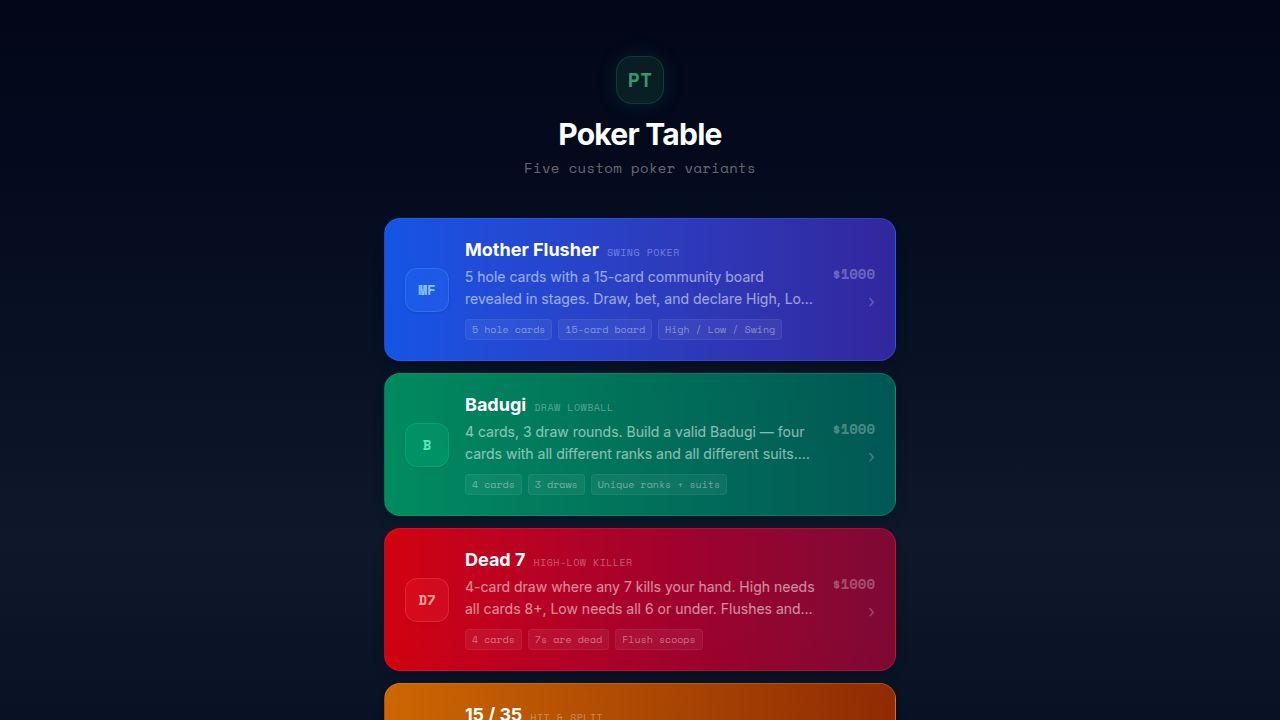
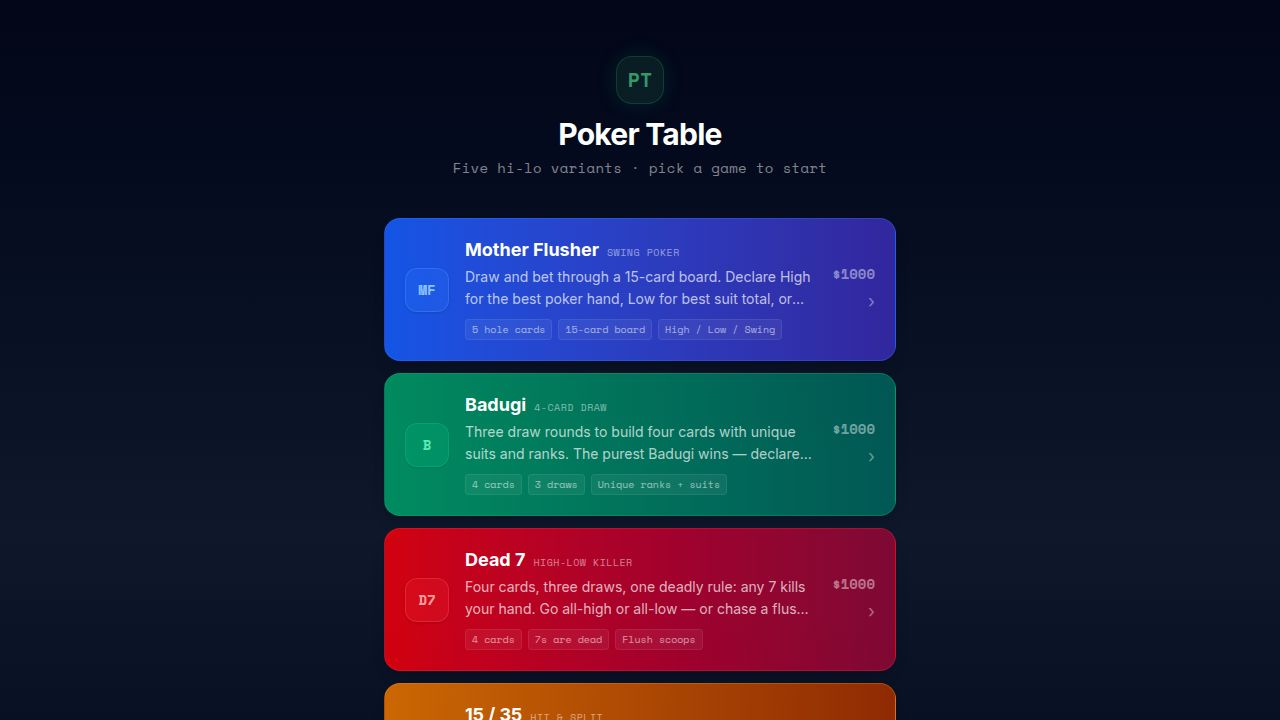
Add a welcome screen and local sign-in flow for players
Implement a closed-alpha welcome screen and local player name persistence, allowing users to enter a display name that is saved to localStorage. The player name is then displayed on the home page and used for the mock player in the game engine. Includes a shake animation for invalid input and updates documentation.

Replit-Commit-Author: Agent
Replit-Commit-Session-Id: a8a0903d-6548-4b69-8b8f-c89d01671870
Replit-Commit-Checkpoint-Type: full_checkpoint
Replit-Commit-Event-Id: 010b504e-9160-4e97-8202-93198312d97c
Replit-Commit-Screenshot-Url: https://storage.googleapis.com/screenshot-production-us-central1/b30810ef-c64c-449c-a8ce-6b19686a9135/a8a0903d-6548-4b69-8b8f-c89d01671870/Pb24JQD
Replit-Helium-Checkpoint-Created: true

diff --git a/client/src/components/WelcomeGate.tsx b/client/src/components/WelcomeGate.tsx
@@ -1,0 +1,97 @@
+import { useState, type ReactNode } from "react";
+import { getPlayerName, setPlayerName } from "@/lib/persistence";
+
+interface WelcomeGateProps {
+  children: ReactNode;
+}
+
+export function WelcomeGate({ children }: WelcomeGateProps) {
+  const [name, setName] = useState(() => getPlayerName());
+
+  if (name) return <>{children}</>;
+
+  return <WelcomeScreen onComplete={(n) => { setPlayerName(n); setName(n); }} />;
+}
+
+function WelcomeScreen({ onComplete }: { onComplete: (name: string) => void }) {
+  const [input, setInput] = useState("");
+  const [shaking, setShaking] = useState(false);
+  const trimmed = input.trim();
+  const valid = trimmed.length >= 2 && trimmed.length <= 16;
+
+  const handleSubmit = (e: React.FormEvent) => {
+    e.preventDefault();
+    if (!valid) {
+      setShaking(true);
+      setTimeout(() => setShaking(false), 500);
+      return;
+    }
+    onComplete(trimmed);
+  };
+
+  return (
+    <div className="min-h-[100dvh] bg-gradient-to-b from-slate-950 via-slate-900 to-slate-950 flex items-center justify-center px-4 py-8">
+      <div className="w-full max-w-md flex flex-col items-center">
+        <div className="w-14 h-14 rounded-2xl bg-primary/15 border border-primary/25 flex items-center justify-center shadow-[0_0_30px_rgba(16,185,129,0.15)] mb-6">
+          <span className="text-primary font-bold text-2xl font-mono">PT</span>
+        </div>
+
+        <div className="text-center mb-8">
+          <h1 className="text-2xl sm:text-3xl font-bold text-white tracking-tight mb-2" data-testid="text-welcome-title">
+            Welcome to Poker Table
+          </h1>
+          <div className="inline-block px-3 py-1 rounded-full bg-primary/10 border border-primary/20 mb-5">
+            <span className="text-primary text-xs font-mono uppercase tracking-widest font-bold" data-testid="text-alpha-badge">Closed Alpha</span>
+          </div>
+        </div>
+
+        <div className="w-full rounded-xl bg-white/[0.03] border border-white/[0.08] p-5 sm:p-6 mb-6">
+          <p className="text-white/80 text-sm leading-relaxed mb-4">
+            Thank you for being selected as an early tester. You are part of a small group helping shape this game before anyone else sees it.
+          </p>
+          <p className="text-white/65 text-sm leading-relaxed mb-4">
+            Our goal is to build the best card game experience possible — grounded in psychology, fairness, and strong design. Every decision you see here is intentional, and your perspective matters.
+          </p>
+          <p className="text-white/65 text-sm leading-relaxed">
+            If anything feels wrong, broken, or unfair — please say so. Honest feedback and bug reports are exactly what we need right now.
+          </p>
+        </div>
+
+        <form onSubmit={handleSubmit} className="w-full">
+          <label htmlFor="display-name" className="block text-xs font-mono text-white/50 uppercase tracking-wider mb-2 pl-1">
+            Choose your display name
+          </label>
+          <div className={`flex gap-2 ${shaking ? "animate-shake" : ""}`}>
+            <input
+              id="display-name"
+              type="text"
+              value={input}
+              onChange={(e) => setInput(e.target.value)}
+              placeholder="2–16 characters"
+              maxLength={16}
+              autoFocus
+              autoComplete="off"
+              className="flex-1 h-12 px-4 rounded-xl bg-white/[0.06] border border-white/[0.12] text-white placeholder:text-white/30 font-mono text-sm focus:outline-none focus:border-primary/50 focus:ring-1 focus:ring-primary/25 transition-all"
+              data-testid="input-display-name"
+            />
+            <button
+              type="submit"
+              disabled={!valid}
+              className="h-12 px-6 rounded-xl bg-primary text-primary-foreground font-bold text-sm uppercase tracking-wider disabled:opacity-30 disabled:cursor-not-allowed hover:bg-primary/90 active:scale-[0.97] transition-all"
+              data-testid="button-enter"
+            >
+              Enter
+            </button>
+          </div>
+          {input.length > 0 && !valid && (
+            <p className="text-red-400/70 text-xs font-mono mt-2 pl-1">Name must be 2–16 characters</p>
+          )}
+        </form>
+
+        <p className="text-white/30 text-[10px] font-mono mt-8 text-center leading-relaxed max-w-xs">
+          Your name and progress are saved locally on this device only. No account or login required.
+        </p>
+      </div>
+    </div>
+  );
+}

diff --git a/client/src/lib/poker/engine/useGameEngine.ts b/client/src/lib/poker/engine/useGameEngine.ts
@@ -2,10 +2,10 @@ import { useState, useEffect, useCallback, useRef } from 'react';
 import { GameState, Player, CardType, Declaration, GamePhase, PlayerStatus } from '../types';
 import { createDeck, getNextActivePlayerIndex, getDealerIndex, moveDealer } from './core';
 import { GameMode } from './types';
-import { getChips, saveChips, addHandRecord, HandRecord } from '../../persistence';
+import { getChips, saveChips, addHandRecord, HandRecord, getPlayerName } from '../../persistence';
 
 export const createMockPlayers = (heroChips: number): Player[] => [
-  { id: 'p1', name: 'You', chips: heroChips, bet: 0, cards: [], status: 'active', isDealer: false, declaration: null, hasActed: false },
+  { id: 'p1', name: getPlayerName() || 'You', chips: heroChips, bet: 0, cards: [], status: 'active', isDealer: false, declaration: null, hasActed: false },
   { id: 'p2', name: 'Alice', chips: 1000, bet: 0, cards: [], status: 'active', isDealer: true, declaration: null, hasActed: false },
   { id: 'p3', name: 'Bob', chips: 1000, bet: 0, cards: [], status: 'active', isDealer: false, declaration: null, hasActed: false },
   { id: 'p4', name: 'Charlie', chips: 1000, bet: 0, cards: [], status: 'active', isDealer: false, declaration: null, hasActed: false },

diff --git a/client/src/pages/Home.tsx b/client/src/pages/Home.tsx
@@ -1,5 +1,5 @@
 import { useLocation } from "wouter";
-import { getAllChips, getHandHistory } from "@/lib/persistence";
+import { getAllChips, getHandHistory, getPlayerName } from "@/lib/persistence";
 import { HandHistory } from "@/components/game/HandHistory";
 import { StatsView } from "@/components/game/StatsView";
 
@@ -78,6 +78,7 @@ const modes = [
 
 export default function Home() {
   const [, navigate] = useLocation();
+  const playerName = getPlayerName();
   const chipMap = getAllChips();
   const history = getHandHistory();
   const totalHands = history.length;
@@ -96,6 +97,11 @@ export default function Home() {
             <h1 className="text-2xl sm:text-3xl font-bold text-white tracking-tight" data-testid="text-app-title">
               Poker Table
             </h1>
+            {playerName && (
+              <p className="text-primary/80 text-xs font-mono mt-1 tracking-wide" data-testid="text-player-greeting">
+                {playerName}
+              </p>
+            )}
             <p className="text-white/50 text-sm mt-1.5 font-mono tracking-wide" data-testid="text-app-subtitle">
               {totalHands === 0 ? "Five hi-lo variants \u00B7 pick a game to start" : "Five hi-lo variants"}
             </p>

diff --git a/client/src/App.tsx b/client/src/App.tsx
@@ -3,6 +3,7 @@ import { queryClient } from "./lib/queryClient";
 import { QueryClientProvider } from "@tanstack/react-query";
 import { Toaster } from "@/components/ui/toaster";
 import { TooltipProvider } from "@/components/ui/tooltip";
+import { WelcomeGate } from "@/components/WelcomeGate";
 import NotFound from "@/pages/not-found";
 import Home from "@/pages/Home";
 import Game from "@/pages/Game";
@@ -30,7 +31,9 @@ function App() {
     <QueryClientProvider client={queryClient}>
       <TooltipProvider>
         <Toaster />
-        <Router />
+        <WelcomeGate>
+          <Router />
+        </WelcomeGate>
       </TooltipProvider>
     </QueryClientProvider>
   );

diff --git a/client/src/lib/persistence.ts b/client/src/lib/persistence.ts
@@ -1,5 +1,6 @@
 const CHIPS_KEY = 'poker_table_chips';
 const HISTORY_KEY = 'poker_table_history';
+const NAME_KEY = 'poker_table_player_name';
 const MAX_HISTORY = 50;
 const DEFAULT_CHIPS = 1000;
 
@@ -76,6 +77,21 @@ export function resetAllData(): void {
   try {
     localStorage.removeItem(CHIPS_KEY);
     localStorage.removeItem(HISTORY_KEY);
+  } catch {
+  }
+}
+
+export function getPlayerName(): string | null {
+  try {
+    return localStorage.getItem(NAME_KEY);
+  } catch {
+    return null;
+  }
+}
+
+export function setPlayerName(name: string): void {
+  try {
+    localStorage.setItem(NAME_KEY, name);
   } catch {
   }
 }

diff --git a/client/src/index.css b/client/src/index.css
@@ -200,3 +200,16 @@
 .anim-reveal-flash {
   animation: reveal-flash 0.6s ease-out;
 }
+
+@keyframes shake {
+  0%, 100% { transform: translateX(0); }
+  15% { transform: translateX(-6px); }
+  30% { transform: translateX(5px); }
+  45% { transform: translateX(-4px); }
+  60% { transform: translateX(3px); }
+  75% { transform: translateX(-2px); }
+}
+
+.animate-shake {
+  animation: shake 0.4s ease-out;
+}

diff --git a/replit.md b/replit.md
@@ -23,6 +23,14 @@ A client-side poker game platform supporting five custom poker variants, built w
 - **Backend**: Express server serves the Vite dev frontend; no database needed (game is client-side only)
 - **Engine**: Shared game engine (`client/src/lib/poker/engine/`) with pluggable game modes (`client/src/lib/poker/modes/`)
 
+## Local Identity (Closed Alpha)
+- **WelcomeGate** (`client/src/components/WelcomeGate.tsx`): wraps the entire Router in App.tsx. On first visit (no `poker_table_player_name` in localStorage), shows a closed-alpha welcome screen explaining the test group and asking for a display name (2–16 chars). After entry, the name is saved and the app loads normally. Returning users skip straight to the lobby.
+- Display name is stored as a plain string in `localStorage` key `poker_table_player_name`.
+- `persistence.ts` exports `getPlayerName()` and `setPlayerName()`.
+- The hero player name in `createMockPlayers` reads from `getPlayerName()` (falls back to 'You').
+- Home page shows the player name below the title.
+- No passwords, emails, cloud accounts, or multiplayer auth. Device-local only.
+
 ## Phase Flows
 - **Badugi/Dead7**: `WAITING → ANTE → DEAL → DRAW_1 → BET_1 → DRAW_2 → BET_2 → DRAW_3 → DECLARE → BET_3 → SHOWDOWN`
 - **15/35**: `WAITING → ANTE → DEAL → BET_1 → HIT_1 → BET_2 → ... → SHOWDOWN` (up to 8 HIT/BET rounds; skips to SHOWDOWN when all stayed/busted)
